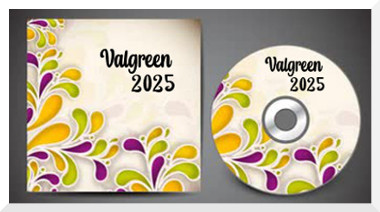
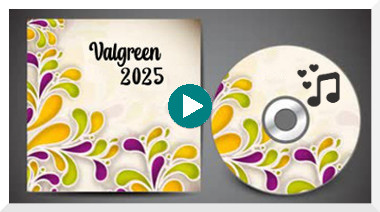
Add files via upload
Actualizar caratulas

Changed region(s): [[0.2316, 0.1981, 0.5789, 0.6226], [0.6947, 0.2547, 0.8974, 0.5094]]

diff --git a/index.html b/index.html
@@ -18,8 +18,8 @@
 			</audio>
 		</div>
 		<div class="cdroms">
-			<a href="https://vilorto.github.io/valgreen25/"><img src="media/cd-v25.jpg" alt="Valgreen 2025" title="Valgreen 2025"></a>
-			<a href="https://vilorto.github.io/valgreen26/"><img src="media/cd-v26.jpg" alt="Valgreen 2026" title="Valgreen 2026"></a>
+			<a href="../Valgreen25/index.html"><img src="media/cd-v25.jpg" alt="Valgreen 2025" title="Ir a Valgreen 2025"></a>
+			<a href="../Valgreen26/index.html"><img src="media/cd-v26.jpg" alt="Valgreen 2026" title="Ir a Valgreen 2026"></a>
 		</div>
 	</div>		
 </body>

diff --git a/css/estilos.css b/css/estilos.css
@@ -8,14 +8,23 @@ body {
 }
 
 .contenedor {
-	margin: 10px 0;
+	margin: 10px 0 5px 0;
 }
 
-.reproductor audio {
+audio {
 	width: 380px;
-	margin: 10px 0;
+	height: 40px;
+	margin: 0 0 5px 0;
 }
 
+audio::-webkit-media-controls-enclosure {
+	border-radius: 0px;
+}
+
+audio::-webkit-media-controls-panel {
+	background-color: #777;
+}
+	
 .contenedor,
 .nubes,
 .cdroms,
@@ -23,5 +32,8 @@ body {
   display: flex;
   flex-direction: column;
   align-items: center;
- /* gap: 10px;*/
+}
+
+.cdroms img {
+	margin: 5px 0 5px 0;
 }
